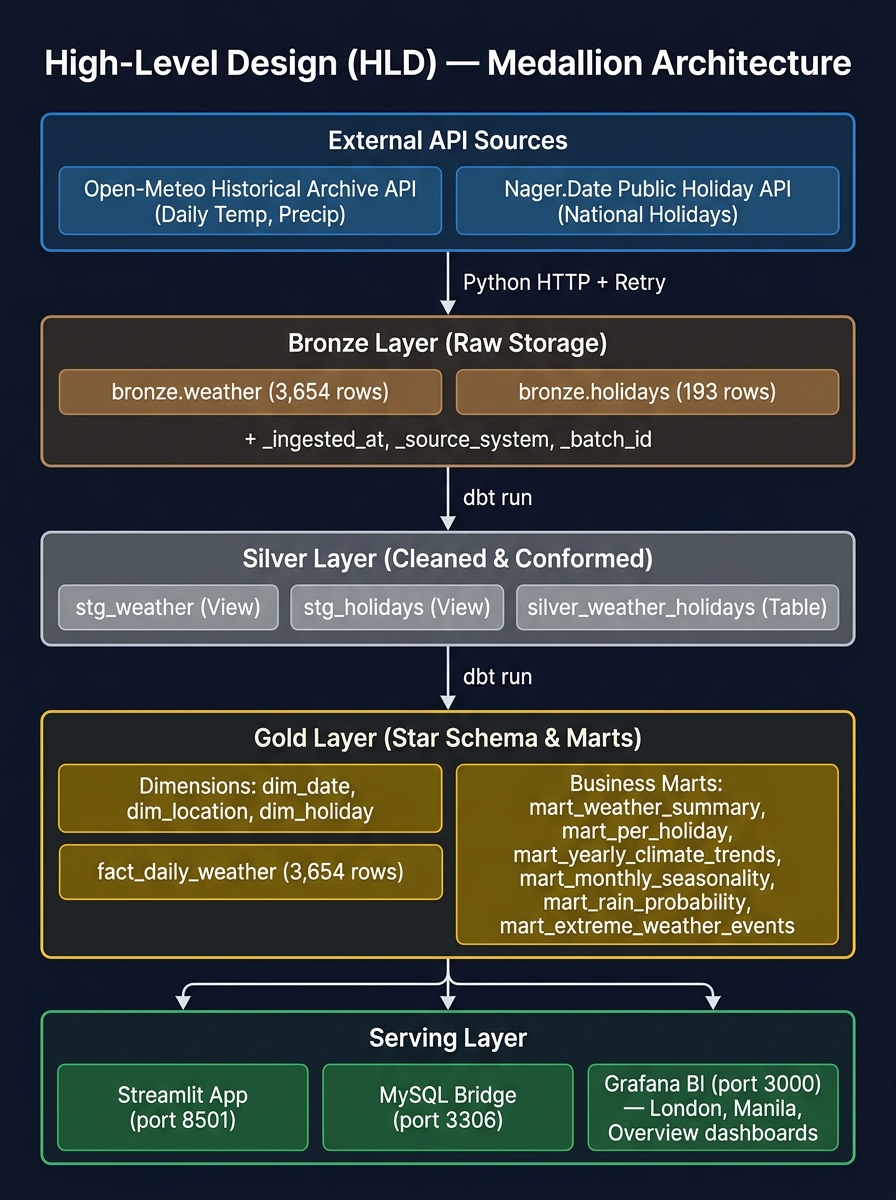
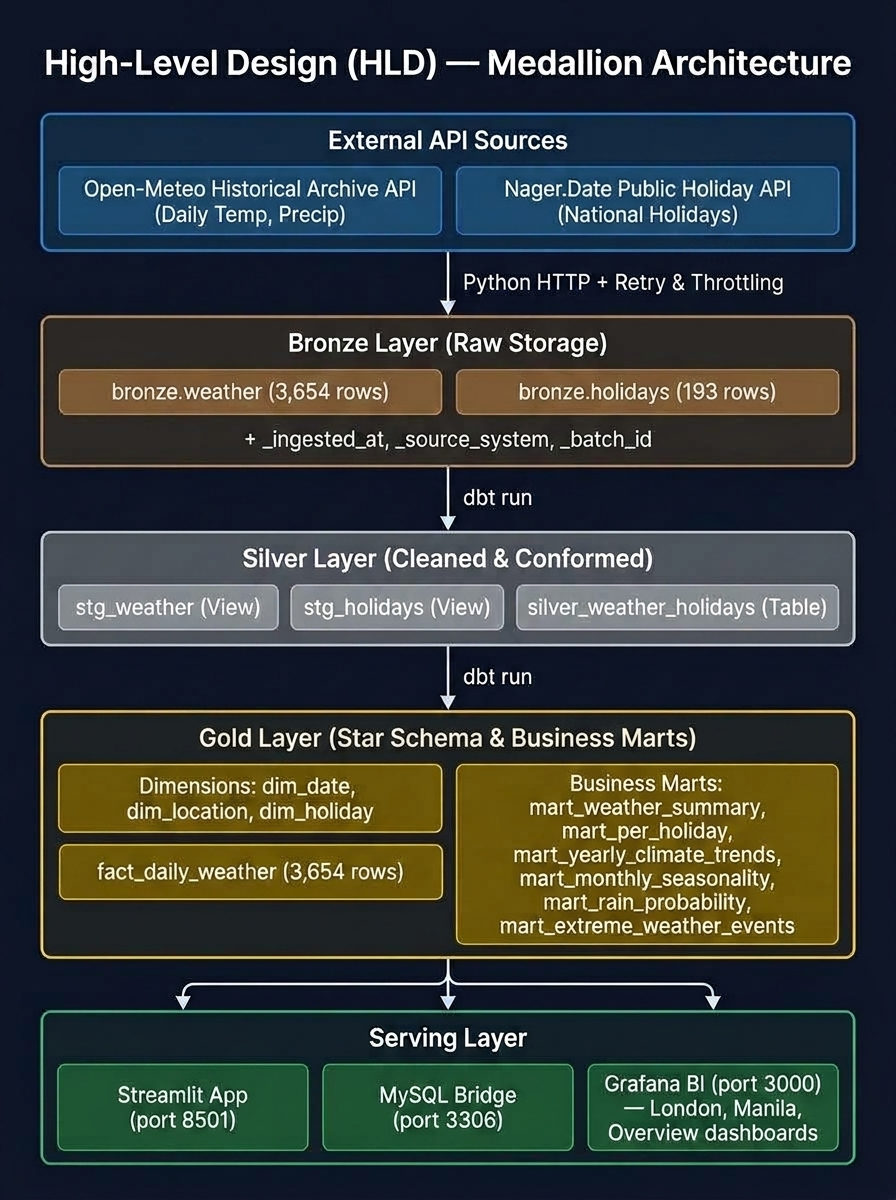
add updated hld

diff --git a/docs/hld_architecture.html b/docs/hld_architecture.html
@@ -1,0 +1,278 @@
+<!DOCTYPE html>
+<html lang="en">
+<head>
+  <meta charset="UTF-8">
+  <meta name="viewport" content="width=device-width, initial-scale=1.0">
+  <title>Weather & Holiday Intelligence Platform — High-Level Design (HLD)</title>
+  <style>
+    :root {
+      --bg: #0b0f19;
+      --card-bg: #131b2e;
+      --border: #1e293b;
+      --text: #f1f5f9;
+      --text-muted: #94a3b8;
+      --accent-blue: #38bdf8;
+      --bronze: #d97706;
+      --bronze-bg: rgba(217, 119, 6, 0.08);
+      --silver: #94a3b8;
+      --silver-bg: rgba(148, 163, 184, 0.08);
+      --gold: #eab308;
+      --gold-bg: rgba(234, 179, 8, 0.08);
+      --emerald: #10b981;
+      --emerald-bg: rgba(16, 185, 129, 0.08);
+      --purple: #a855f7;
+    }
+    * { box-sizing: border-box; margin: 0; padding: 0; }
+    body {
+      background-color: var(--bg);
+      color: var(--text);
+      font-family: -apple-system, BlinkMacSystemFont, "Segoe UI", Roboto, "Helvetica Neue", Arial, sans-serif;
+      padding: 40px 20px;
+      display: flex;
+      flex-direction: column;
+      align-items: center;
+    }
+    .header {
+      text-align: center;
+      margin-bottom: 30px;
+      max-width: 900px;
+    }
+    .header h1 {
+      font-size: 28px;
+      font-weight: 700;
+      letter-spacing: -0.5px;
+      margin-bottom: 8px;
+      background: linear-gradient(135deg, #38bdf8 0%, #818cf8 100%);
+      -webkit-background-clip: text;
+      -webkit-text-fill-color: transparent;
+    }
+    .header p {
+      color: var(--text-muted);
+      font-size: 15px;
+    }
+    .diagram-container {
+      width: 100%;
+      max-width: 1100px;
+      background: #0f172a;
+      border: 1px solid var(--border);
+      border-radius: 16px;
+      padding: 30px;
+      box-shadow: 0 25px 50px -12px rgba(0, 0, 0, 0.5);
+    }
+    svg {
+      width: 100%;
+      height: auto;
+      display: block;
+    }
+    .legend {
+      display: flex;
+      justify-content: center;
+      gap: 24px;
+      margin-top: 24px;
+      flex-wrap: wrap;
+    }
+    .legend-item {
+      display: flex;
+      align-items: center;
+      gap: 8px;
+      font-size: 13px;
+      color: var(--text-muted);
+    }
+    .legend-dot {
+      width: 12px;
+      height: 12px;
+      border-radius: 3px;
+    }
+  </style>
+</head>
+<body>
+
+  <div class="header">
+    <h1>High-Level Design (HLD) — Medallion Architecture</h1>
+    <p>Multi-City Weather & Public Holiday Intelligence Platform (London & Manila, 2021–2026)</p>
+  </div>
+
+  <div class="diagram-container">
+    <svg viewBox="0 0 1000 1280" xmlns="http://www.w3.org/2000/svg">
+      <defs>
+        <marker id="arrow" viewBox="0 0 10 10" refX="6" refY="5" markerWidth="6" markerHeight="6" orient="auto-start-reverse">
+          <path d="M 0 1 L 10 5 L 0 9 z" fill="#64748b" />
+        </marker>
+        <marker id="arrow-active" viewBox="0 0 10 10" refX="6" refY="5" markerWidth="6" markerHeight="6" orient="auto-start-reverse">
+          <path d="M 0 1 L 10 5 L 0 9 z" fill="#38bdf8" />
+        </marker>
+        <filter id="glow" x="-20%" y="-20%" width="140%" height="140%">
+          <feDropShadow dx="0" dy="4" stdDeviation="6" flood-color="#000" flood-opacity="0.4"/>
+        </filter>
+      </defs>
+
+      <!-- 1. EXTERNAL APIS -->
+      <g id="tier-external">
+        <rect x="50" y="30" width="900" height="120" rx="12" fill="#131d33" stroke="#1e3a8a" stroke-width="1.5" filter="url(#glow)"/>
+        <text x="75" y="60" fill="#38bdf8" font-size="13" font-weight="700" letter-spacing="1">1. EXTERNAL DATA SOURCES</text>
+        
+        <!-- API 1 -->
+        <rect x="75" y="75" width="410" height="60" rx="8" fill="#1e293b" stroke="#334155" stroke-width="1"/>
+        <text x="95" y="100" fill="#ffffff" font-size="14" font-weight="600">🌤 Open-Meteo Historical Archive API</text>
+        <text x="95" y="122" fill="#94a3b8" font-size="12">Daily observations: max/min temp, precipitation_sum (London, Manila)</text>
+
+        <!-- API 2 -->
+        <rect x="515" y="75" width="410" height="60" rx="8" fill="#1e293b" stroke="#334155" stroke-width="1"/>
+        <text x="535" y="100" fill="#ffffff" font-size="14" font-weight="600">📅 Nager.Date Public Holiday API</text>
+        <text x="535" y="122" fill="#94a3b8" font-size="12">National and regional public holidays (GB & PH 2021–2026)</text>
+      </g>
+
+      <!-- INGESTION CONNECTOR -->
+      <line x1="500" y1="150" x2="500" y2="195" stroke="#64748b" stroke-width="2" marker-end="url(#arrow)"/>
+      <rect x="360" y="162" width="280" height="24" rx="12" fill="#0f172a" stroke="#334155" stroke-width="1"/>
+      <text x="500" y="178" fill="#94a3b8" font-size="11" font-weight="500" text-anchor="middle">Python Ingestion (extract_load.py with Retry & Backoff)</text>
+
+      <!-- 2. BRONZE LAYER -->
+      <g id="tier-bronze">
+        <rect x="50" y="200" width="900" height="135" rx="12" fill="rgba(217, 119, 6, 0.05)" stroke="#b45309" stroke-width="1.5" filter="url(#glow)"/>
+        <text x="75" y="230" fill="#f59e0b" font-size="13" font-weight="700" letter-spacing="1">2. 🥉 BRONZE LAYER (RAW DUCKDB TABLES: bronze.* & raw.*)</text>
+        
+        <!-- Bronze Weather -->
+        <rect x="75" y="245" width="410" height="75" rx="8" fill="#1e293b" stroke="#78350f" stroke-width="1"/>
+        <text x="95" y="270" fill="#fde68a" font-size="14" font-weight="600">bronze.weather & raw.weather</text>
+        <text x="95" y="290" fill="#cbd5e1" font-size="12">3,654 raw observation rows (London & Manila 5-yr)</text>
+        <text x="95" y="308" fill="#94a3b8" font-size="11">Audit tags: _ingested_at, _source_system, _batch_id</text>
+
+        <!-- Bronze Holidays -->
+        <rect x="515" y="245" width="410" height="75" rx="8" fill="#1e293b" stroke="#78350f" stroke-width="1"/>
+        <text x="535" y="270" fill="#fde68a" font-size="14" font-weight="600">bronze.holidays & raw.holidays</text>
+        <text x="535" y="290" fill="#cbd5e1" font-size="12">193 raw holiday records (GB & PH 2021–2026)</text>
+        <text x="535" y="308" fill="#94a3b8" font-size="11">Audit tags: _ingested_at, _source_system, _batch_id</text>
+      </g>
+
+      <!-- DBT RUN 1 -->
+      <line x1="500" y1="335" x2="500" y2="380" stroke="#64748b" stroke-width="2" marker-end="url(#arrow)"/>
+      <rect x="420" y="347" width="160" height="24" rx="12" fill="#0f172a" stroke="#ea580c" stroke-width="1"/>
+      <text x="500" y="363" fill="#fb923c" font-size="11" font-weight="600" text-anchor="middle">⚡ dbt run (Silver Models)</text>
+
+      <!-- 3. SILVER LAYER -->
+      <g id="tier-silver">
+        <rect x="50" y="385" width="900" height="155" rx="12" fill="rgba(148, 163, 184, 0.05)" stroke="#64748b" stroke-width="1.5" filter="url(#glow)"/>
+        <text x="75" y="415" fill="#cbd5e1" font-size="13" font-weight="700" letter-spacing="1">3. 🥈 SILVER LAYER (CLEANSED, STANDARDIZED & CONFORMED: main_silver.*)</text>
+        
+        <!-- stg_weather -->
+        <rect x="75" y="430" width="265" height="95" rx="8" fill="#1e293b" stroke="#475569" stroke-width="1"/>
+        <text x="90" y="455" fill="#ffffff" font-size="13" font-weight="600">main_silver.stg_weather</text>
+        <text x="90" y="475" fill="#94a3b8" font-size="11">• ISO date casting & deduplication</text>
+        <text x="90" y="493" fill="#94a3b8" font-size="11">• Temp range validation flag</text>
+        <text x="90" y="511" fill="#94a3b8" font-size="11">• Precipitation sum ≥ 0 check</text>
+
+        <!-- stg_holidays -->
+        <rect x="367" y="430" width="265" height="95" rx="8" fill="#1e293b" stroke="#475569" stroke-width="1"/>
+        <text x="382" y="455" fill="#ffffff" font-size="13" font-weight="600">main_silver.stg_holidays</text>
+        <text x="382" y="475" fill="#94a3b8" font-size="11">• Standardized snake_case naming</text>
+        <text x="382" y="493" fill="#94a3b8" font-size="11">• Boolean is_global typing</text>
+        <text x="382" y="511" fill="#94a3b8" font-size="11">• Public holiday categorization</text>
+
+        <!-- silver_weather_holidays -->
+        <rect x="660" y="430" width="265" height="95" rx="8" fill="#1e293b" stroke="#475569" stroke-width="1"/>
+        <text x="675" y="455" fill="#ffffff" font-size="13" font-weight="600">silver_weather_holidays</text>
+        <text x="675" y="475" fill="#94a3b8" font-size="11">• Unified daily observation grain</text>
+        <text x="675" y="493" fill="#94a3b8" font-size="11">• Calendar flags (weekend, year, month)</text>
+        <text x="675" y="511" fill="#94a3b8" font-size="11">• Holiday name & day_type join</text>
+      </g>
+
+      <!-- DBT RUN 2 -->
+      <line x1="500" y1="540" x2="500" y2="585" stroke="#64748b" stroke-width="2" marker-end="url(#arrow)"/>
+      <rect x="390" y="552" width="220" height="24" rx="12" fill="#0f172a" stroke="#ea580c" stroke-width="1"/>
+      <text x="500" y="568" fill="#fb923c" font-size="11" font-weight="600" text-anchor="middle">⚡ dbt run (Gold Star Schema & Marts)</text>
+
+      <!-- 4. GOLD LAYER -->
+      <g id="tier-gold">
+        <rect x="50" y="590" width="900" height="340" rx="12" fill="rgba(234, 179, 8, 0.05)" stroke="#ca8a04" stroke-width="1.5" filter="url(#glow)"/>
+        <text x="75" y="620" fill="#facc15" font-size="13" font-weight="700" letter-spacing="1">4. 🥇 GOLD LAYER (STAR SCHEMA & BUSINESS MARTS: main_gold.*)</text>
+        
+        <!-- Dimensions Box -->
+        <rect x="75" y="635" width="410" height="135" rx="8" fill="#1e293b" stroke="#854d0e" stroke-width="1"/>
+        <text x="95" y="660" fill="#fef08a" font-size="13" font-weight="600">⭐ Conformed Dimensions</text>
+        <text x="95" y="683" fill="#ffffff" font-size="12">main_gold.dim_date (1,827 rows)</text>
+        <text x="110" y="700" fill="#94a3b8" font-size="11">PK: date_key, day_name, is_weekend, season_temperate</text>
+        <text x="95" y="720" fill="#ffffff" font-size="12">main_gold.dim_location (2 rows) & dim_holiday (38 rows)</text>
+        <text x="110" y="737" fill="#94a3b8" font-size="11">PKs: location_id (London, Manila), holiday_id (0 = No Holiday)</text>
+
+        <!-- Fact Table Box -->
+        <rect x="75" y="785" width="410" height="130" rx="8" fill="#1e293b" stroke="#854d0e" stroke-width="1"/>
+        <text x="95" y="810" fill="#fef08a" font-size="13" font-weight="600">📊 Central Fact Table</text>
+        <text x="95" y="833" fill="#ffffff" font-size="12">main_gold.fact_daily_weather (3,654 rows)</text>
+        <text x="95" y="855" fill="#94a3b8" font-size="11">• Primary Key: fact_id (Row number)</text>
+        <text x="95" y="873" fill="#94a3b8" font-size="11">• Foreign Keys: date_key → dim_date, location_id, holiday_id</text>
+        <text x="95" y="891" fill="#94a3b8" font-size="11">• Measures: max/min temp, precipitation_sum, flags</text>
+        <text x="95" y="907" fill="#38bdf8" font-size="10">Validated via 27 automated dbt schema & integrity tests</text>
+
+        <!-- Business Marts Box -->
+        <rect x="515" y="635" width="410" height="280" rx="8" fill="#1e293b" stroke="#854d0e" stroke-width="1"/>
+        <text x="535" y="660" fill="#fef08a" font-size="13" font-weight="600">📈 Aggregated Business Marts (6 Models)</text>
+        
+        <rect x="535" y="675" width="370" height="34" rx="4" fill="#0f172a"/>
+        <text x="547" y="696" fill="#ffffff" font-size="11" font-weight="500">mart_weather_summary</text>
+        <text x="730" y="696" fill="#94a3b8" font-size="11">Holiday vs Regular Day KPIs</text>
+
+        <rect x="535" y="715" width="370" height="34" rx="4" fill="#0f172a"/>
+        <text x="547" y="736" fill="#ffffff" font-size="11" font-weight="500">mart_per_holiday</text>
+        <text x="730" y="736" fill="#94a3b8" font-size="11">Holiday temperature & rain rankings</text>
+
+        <rect x="535" y="755" width="370" height="34" rx="4" fill="#0f172a"/>
+        <text x="547" y="776" fill="#ffffff" font-size="11" font-weight="500">mart_yearly_climate_trends</text>
+        <text x="730" y="776" fill="#94a3b8" font-size="11">5-year climate longitudinal shift</text>
+
+        <rect x="535" y="795" width="370" height="34" rx="4" fill="#0f172a"/>
+        <text x="547" y="816" fill="#ffffff" font-size="11" font-weight="500">mart_monthly_seasonality</text>
+        <text x="730" y="816" fill="#94a3b8" font-size="11">12-month temperature seasonality</text>
+
+        <rect x="535" y="835" width="370" height="34" rx="4" fill="#0f172a"/>
+        <text x="547" y="856" fill="#ffffff" font-size="11" font-weight="500">mart_rain_probability</text>
+        <text x="730" y="856" fill="#94a3b8" font-size="11">Rain & heavy rain probabilities (%)</text>
+
+        <rect x="535" y="875" width="370" height="34" rx="4" fill="#0f172a"/>
+        <text x="547" y="896" fill="#ffffff" font-size="11" font-weight="500">mart_extreme_weather_events</text>
+        <text x="730" y="896" fill="#94a3b8" font-size="11">Top rainfall events on holidays</text>
+      </g>
+
+      <!-- SERVING CONNECTORS -->
+      <line x1="280" y1="930" x2="280" y2="985" stroke="#38bdf8" stroke-width="2" marker-end="url(#arrow-active)"/>
+      <line x1="720" y1="930" x2="720" y2="985" stroke="#10b981" stroke-width="2" marker-end="url(#arrow-active)"/>
+
+      <!-- 5. SERVING & PRESENTATION LAYER -->
+      <g id="tier-serving">
+        <rect x="50" y="990" width="900" height="240" rx="12" fill="rgba(16, 185, 129, 0.05)" stroke="#059669" stroke-width="1.5" filter="url(#glow)"/>
+        <text x="75" y="1020" fill="#34d399" font-size="13" font-weight="700" letter-spacing="1">5. SERVING & BI PRESENTATION LAYER</text>
+        
+        <!-- Streamlit App -->
+        <rect x="75" y="1035" width="410" height="175" rx="8" fill="#1e293b" stroke="#047857" stroke-width="1"/>
+        <text x="95" y="1060" fill="#a7f3d0" font-size="14" font-weight="600">📊 Streamlit Web App (Port 8501)</text>
+        <text x="95" y="1080" fill="#94a3b8" font-size="11">Direct In-Process DuckDB connection • Sub-millisecond latency</text>
+        <text x="95" y="1105" fill="#ffffff" font-size="12">• Dynamic City Switcher: London (GB) / Manila (PH)</text>
+        <text x="95" y="1125" fill="#ffffff" font-size="12">• 7 Narrative Analytical Insight Modules</text>
+        <text x="95" y="1145" fill="#ffffff" font-size="12">• Interactive Plotly visualizations & KPIs</text>
+        <text x="95" y="1165" fill="#ffffff" font-size="12">• Parameterized SQL query execution (anti-SQLi)</text>
+        <text x="95" y="1190" fill="#38bdf8" font-size="11">serving/dashboard.py</text>
+
+        <!-- MySQL Bridge & Grafana -->
+        <rect x="515" y="1035" width="410" height="175" rx="8" fill="#1e293b" stroke="#047857" stroke-width="1"/>
+        <text x="535" y="1060" fill="#a7f3d0" font-size="14" font-weight="600">📈 MySQL Wire Protocol Bridge & Grafana (Port 3000)</text>
+        <text x="535" y="1080" fill="#94a3b8" font-size="11">mysql_server.py (Port 3306) with TLS/SSL encryption</text>
+        <text x="535" y="1105" fill="#ffffff" font-size="12">• In-Memory DuckDB cache duplicating Gold tables & marts</text>
+        <text x="535" y="1125" fill="#ffffff" font-size="12">• 🇬🇧 Dedicated London Dashboard (/d/weather-london-insights)</text>
+        <text x="535" y="1145" fill="#ffffff" font-size="12">• 🇵🇭 Dedicated Manila Dashboard (/d/weather-manila-insights)</text>
+        <text x="535" y="1165" fill="#ffffff" font-size="12">• 🌐 Comparative Overview Dashboard (/d/weather-holiday-mysql)</text>
+        <text x="535" y="1190" fill="#38bdf8" font-size="11">Native Grafana timepicker & auto-refresh</text>
+      </g>
+    </svg>
+  </div>
+
+  <div class="legend">
+    <div class="legend-item"><div class="legend-dot" style="background: #38bdf8;"></div>External APIs</div>
+    <div class="legend-item"><div class="legend-dot" style="background: #d97706;"></div>Bronze Raw Layer</div>
+    <div class="legend-item"><div class="legend-dot" style="background: #94a3b8;"></div>Silver Conformed Layer</div>
+    <div class="legend-item"><div class="legend-dot" style="background: #eab308;"></div>Gold Star Schema & Marts</div>
+    <div class="legend-item"><div class="legend-dot" style="background: #10b981;"></div>Serving & Presentation</div>
+  </div>
+
+</body>
+</html>
+

diff --git a/docs/design_documents.md b/docs/design_documents.md
@@ -8,48 +8,68 @@
 ### 1.1 Architectural Pattern: Medallion Architecture
 The platform implements a multi-tier **Medallion Architecture (Bronze $\rightarrow$ Silver $\rightarrow$ Gold)** to guarantee data quality, lineage traceability, and high-performance analytical querying across multi-city data (London & Manila, 2021–2026).
 
+![High-Level Design — Medallion Architecture](images/hld_architecture.jpg)
+
+> 🔍 **Interactive Vector Diagram**: A standalone vector SVG diagram is available at [`docs/hld_architecture.html`](hld_architecture.html).
+
 ```mermaid
 flowchart TD
     subgraph DataSources["1. External API Sources"]
         A1["🌤 Open-Meteo Historical Archive API\n(Daily Temp Max/Min, Precip)"]
-        A2["📅 Nager.Date Public Holiday API\n(National & Regional Holidays)"]
+        A2["📅 Nager.Date Public Holiday API\n(National & Regional Holiday Calendars)"]
     end
 
-    subgraph BronzeLayer["2. 🥉 Bronze Layer (Raw Storage)"]
-        B1[("bronze.weather (3,654 rows)\n+ _ingested_at, _source_system, _batch_id")]
-        B2[("bronze.holidays (193 rows)\n+ _ingested_at, _source_system, _batch_id")]
+    subgraph Ingestion["2. Ingestion Engine (Python EL)"]
+        EL["extract_load.py\n• Exponential backoff (max 3 retries, 5s delay)\n• 60s/15s HTTP timeouts\n• 500ms holiday rate-limit throttle\n• Audit metadata tagging"]
     end
 
-    subgraph SilverLayer["3. 🥈 Silver Layer (Cleaned & Conformed)"]
-        S1["silver.stg_weather (View)\n• ISO date casting, deduplication, range validation"]
-        S2["silver.stg_holidays (View)\n• Standardized snake_case, boolean typing"]
-        S3[("silver.silver_weather_holidays (Table)\n• Unified daily observation grain\n• Holiday flags & calendar attributes")]
+    subgraph BronzeLayer["3. 🥉 Bronze Layer (DuckDB: bronze.* & raw.*)"]
+        B1[("bronze.weather (3,654 rows)\nRaw daily weather observations\n+ _ingested_at, _source_system, _batch_id")]
+        B2[("bronze.holidays (193 rows)\nRaw public holiday entries (GB & PH)\n+ _ingested_at, _source_system, _batch_id")]
     end
 
-    subgraph GoldLayer["4. 🥇 Gold Layer (Star Schema & Business Marts)"]
-        G_DIM["Dimensional Star Schema:\n• gold.dim_date (1,827 rows)\n• gold.dim_location (2 rows)\n• gold.dim_holiday (38 rows)"]
-        G_FACT[("gold.fact_daily_weather (Table, 3,654 rows)\n• PK: fact_id, FKs: date_key, location_id, holiday_id")]
-        G_MARTS["Aggregated Business Marts:\n• gold.mart_weather_summary (4 rows)\n• gold.mart_per_holiday (37 rows)\n• gold.mart_yearly_climate_trends (12 rows)\n• gold.mart_monthly_seasonality (44 rows)\n• gold.mart_rain_probability (4 rows)\n• gold.mart_extreme_weather_events (162 rows)"]
+    subgraph SilverLayer["4. 🥈 Silver Layer (DuckDB: main_silver.* via dbt)"]
+        S1["main_silver.stg_weather (View)\n• ISO date casting & deduplication\n• Range validation (is_valid_temp_range)\n• Precipitation ≥ 0 constraint"]
+        S2["main_silver.stg_holidays (View)\n• Snake_case standardization\n• Boolean flag casting (is_global)\n• Public holiday categorization"]
+        S3[("main_silver.silver_weather_holidays (Table)\n• Unified daily observation grain\n• Calendar flags (is_weekend, year, month)\n• Holiday name & day_type join")]
     end
 
-    subgraph ServingLayer["5. Serving Bridge & BI Dashboards"]
-        P1["mysql_server.py (port 3306)\n• MySQL Wire Protocol\n• TLS/SSL Encryption\n• In-Memory DuckDB Bridge"]
-        BI1["📊 Streamlit Web App (port 8501)\n• Dark Mode UI\n• City Switcher (London/Manila)\n• 7 Narrative Insight Modules"]
-        BI2["📈 Grafana BI Platform (port 3000)\n• 🇬🇧 Dedicated London Dashboard\n• 🇵🇭 Dedicated Manila Dashboard\n• 🌐 Comparative Overview Dashboard"]
+    subgraph GoldLayer["5. 🥇 Gold Layer (DuckDB: main_gold.* via dbt Star Schema & Marts)"]
+        subgraph Dimensions["Conformed Dimensions"]
+            G_DATE["main_gold.dim_date (1,827 rows)\n• PK: date_key\n• Day name, weekend flag, seasons"]
+            G_LOC["main_gold.dim_location (2 rows)\n• PK: location_id (London, Manila)\n• Timezone & climate zones"]
+            G_HOL["main_gold.dim_holiday (38 rows)\n• PK: holiday_id (0 = 'No Holiday')\n• Local name & global flag"]
+        end
+        G_FACT[("main_gold.fact_daily_weather (Table, 3,654 rows)\n• PK: fact_id\n• FKs: date_key, location_id, holiday_id\n• Measures: max/min temp, precipitation_sum")]
+        G_MARTS["Aggregated Business Marts (6 Models):\n• mart_weather_summary (Holiday vs Regular Day KPIs)\n• mart_per_holiday (Per-holiday records & averages)\n• mart_yearly_climate_trends (5-yr climate shift)\n• mart_monthly_seasonality (12-month seasonality)\n• mart_rain_probability (Rain & heavy rain %)\n• mart_extreme_weather_events (Top precipitation on holidays)"]
     end
 
-    A1 -->|Python HTTP GET with Exponential Backoff| B1
-    A2 -->|Python HTTP GET with Throttling| B2
-    B1 --> S1
-    B2 --> S2
+    subgraph ServingLayer["6. Serving & Analytics Layer"]
+        P_MYSQL["MySQL Bridge (mysql_server.py)\n• Port: 3306 (Loopback 127.0.0.1)\n• TLS/SSL Encryption (server.crt/key)\n• In-Memory DuckDB OLAP Cache"]
+        BI_GRAFANA["📈 Grafana BI Platform (Port 3000)\n• 🇬🇧 London Dashboard\n• 🇵🇭 Manila Dashboard\n• 🌐 Overview Comparison Dashboard"]
+        BI_STREAMLIT["📊 Streamlit Web App (Port 8501)\n• Direct in-process DuckDB engine\n• Dark Mode UI & City Switcher\n• 7 Narrative Analytical Modules"]
+    end
+
+    A1 -->|HTTP GET with Retry| EL
+    A2 -->|HTTP GET with Throttle| EL
+    EL -->|Idempotent Atomic Load| B1
+    EL -->|Idempotent Atomic Load| B2
+    B1 -->|dbt source| S1
+    B2 -->|dbt source| S2
     S1 --> S3
     S2 --> S3
-    S3 --> G_DIM
+    S1 --> G_DATE
+    S1 --> G_LOC
+    S2 --> G_HOL
     S3 --> G_FACT
+    G_LOC -.->|FK lookup| G_FACT
+    G_HOL -.->|FK lookup| G_FACT
     G_FACT --> G_MARTS
-    G_MARTS -->|Direct In-Process SQL| BI1
-    G_MARTS -->|DuckDB In-Memory OLAP| P1
-    P1 -->|MySQL Protocol| BI2
+    G_FACT -->|In-Process DuckDB SQL| BI_STREAMLIT
+    G_MARTS -->|In-Process DuckDB SQL| BI_STREAMLIT
+    G_FACT -->|Memory Replication| P_MYSQL
+    G_MARTS -->|Memory Replication| P_MYSQL
+    P_MYSQL -->|TLS MySQL Wire Protocol| BI_GRAFANA
 ```
 
 ---

diff --git a/README.md b/README.md
@@ -50,11 +50,12 @@ It ingests 5 years (2021–2026) of daily weather observations and national publ
 
 ![High-Level Design — Medallion Architecture](docs/images/hld_architecture.jpg)
 
+> 🔍 **Interactive Vector Diagram**: [`docs/hld_architecture.html`](docs/hld_architecture.html)  
+> Full design document with complete layer specifications: [`docs/design_documents.md`](docs/design_documents.md)
+
 ### Detailed Low-Level Design (DLD) — Pipeline Execution Flow
 
 ![Detailed Low-Level Design — Pipeline Sequence](docs/images/dld_sequence.jpg)
-
-> Full design document with layer specifications: [`docs/design_documents.md`](docs/design_documents.md)
 
 ---
 
